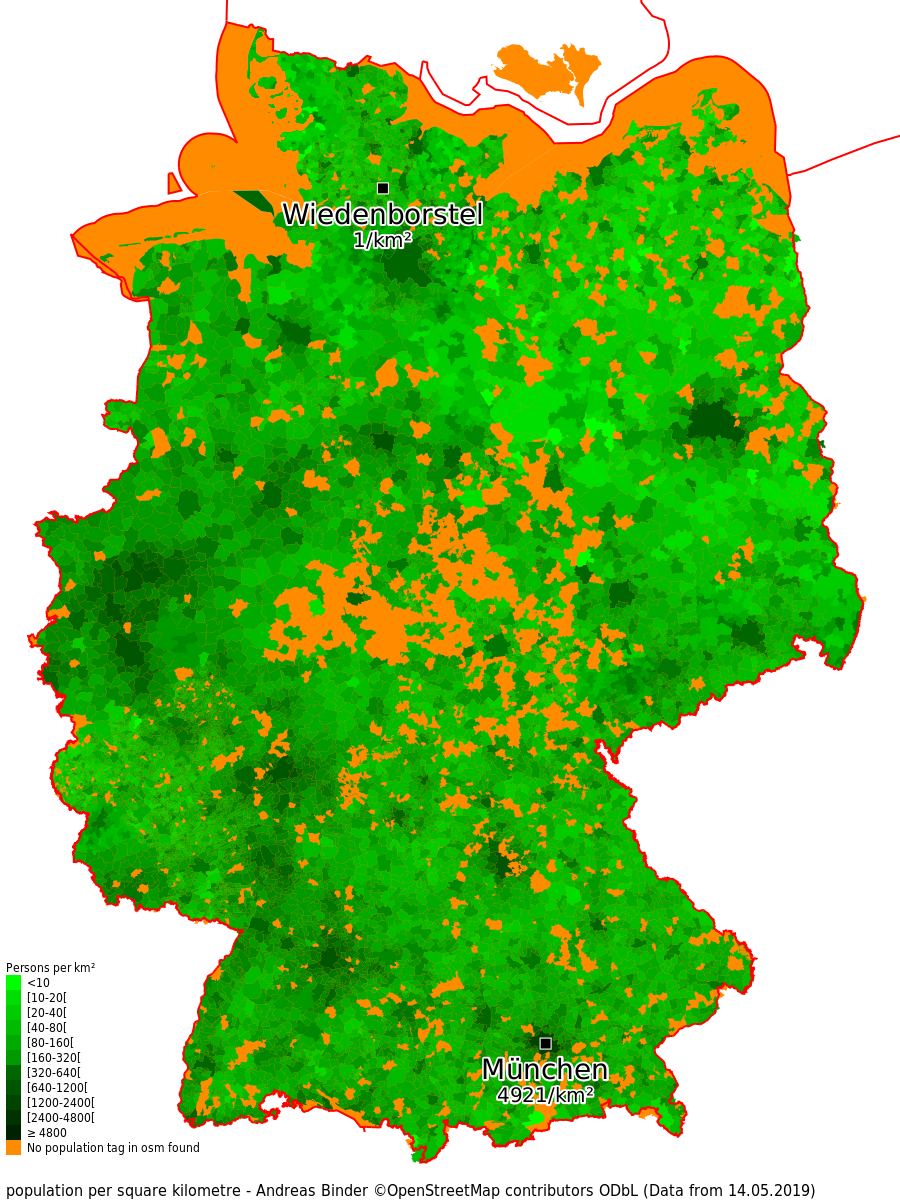
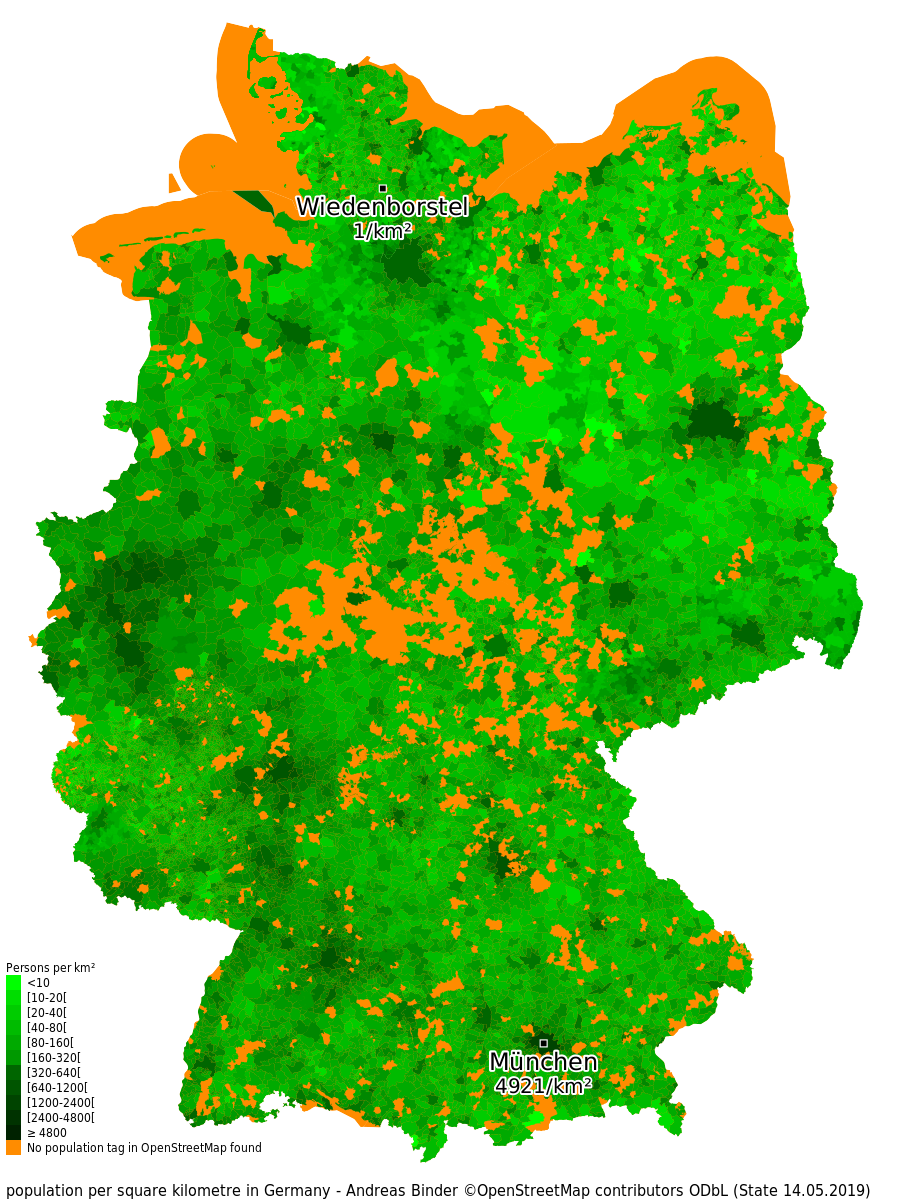
Add files via upload

diff --git a/population-density.py b/population-density.py
@@ -10,7 +10,7 @@ centrex=10.5
 centrey=51.3
 zoom=7
 scale=2
-attribution="population per square kilometre - Andreas Binder ©OpenStreetMap contributors ODbL (Data from 14.05.2019)"
+attribution="population per square kilometre in Germany - Andreas Binder ©OpenStreetMap contributors ODbL (State 14.05.2019)"
 
 merc = mapnik.Projection('+proj=merc +a=6378137 +b=6378137 +lat_ts=0.0 +lon_0=0.0 +x_0=0.0 +y_0=0 +k=1.0 +units=m +nadgrids=@null +no_defs +over')
 
@@ -122,7 +122,7 @@ ctx.show_text("[2400-4800[")
 ctx.move_to(6 * scale + height,m.height - height*4 - 3)
 ctx.show_text(u"\u2265 4800")
 ctx.move_to(6 * scale + height,m.height - height*3 - 3)
-ctx.show_text("No population tag in osm found")
+ctx.show_text("No population tag in OpenStreetMap found")
 
 ctx.set_source_rgb(int("ff",16)/255.0,int("8c",16)/255.0,0)
 ctx.rectangle(3 * scale,m.height - height*4,height,height)
